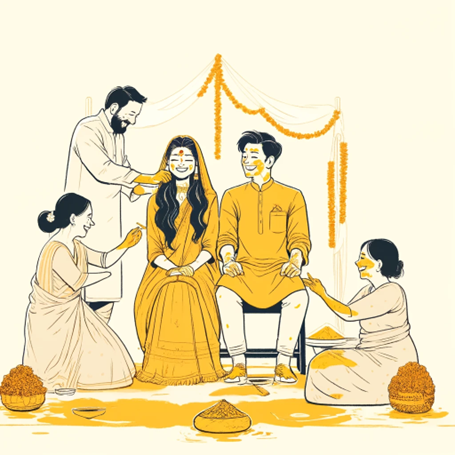
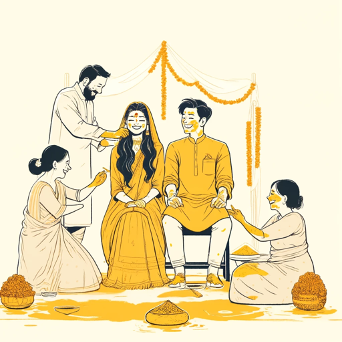
final small edits, fixed lowercased emails in database

diff --git a/app/ui/home/our-story.tsx b/app/ui/home/our-story.tsx
@@ -1,17 +1,20 @@
 import Image from 'next/image';
-import { noto_serif_japanese } from '../fonts';
+import { noto_serif_japanese, quicksand } from '../fonts';
 
-export default function OurStory(){
+export default function OurStory() {
 	return (
-		<div className="flex grid grid-rows-3 items-center justify-center mx-auto md:w-3/5 h-auto md:text-xl text-pretty">
-			<OurStoryBlock1/>
-			<OurStoryBlock2/>
-			<OurStoryBlock3/>
+		<div>
+			<h1 className={`  text-center text-4xl mb-8 underline decoration-suedeboots decoration-double`}>The Story Of How We Met</h1>
+			<div className="flex grid grid-rows-3 items-center justify-center mx-auto md:w-3/5 h-auto md:text-xl text-pretty">
+				<OurStoryBlock1 />
+				<OurStoryBlock2 />
+				<OurStoryBlock3 />
+			</div>
 		</div>
 	)
 }
 
-export function OurStoryBlock1(){
+export function OurStoryBlock1() {
 	return (
 		<div className="md:grid md:grid-cols-2 w-full h-full justify-self-center">
 			<div className="flex items-center justify-center md:hidden">
@@ -48,48 +51,48 @@ export function OurStoryBlock1(){
 			</div>
 			<div className="text-center xl:p-10">
 				<article className="text-pretty">&quot;Hey, they&apos;re speaking English! Wanna join them?&quot;</article>
-				<br/>
+				<br />
 				<article className="text-pretty">Avani, who was mid-conversation with a fellow cross-country club teammate, looked back and recognized the speaker. He was another teammate she had met earlier that month.</article>
-				<br/>
+				<br />
 				<article className="text-pretty">&quot;Oh, you&#39;re that person who asked me if I was Indian, and then ran away after I said &apos;Yes&apos;. What&apos;s your name, by the way? &quot;</article>
-				<br/>
-				<article className="text-pretty">Avani learned that the teammate&apos;s name was Shingo and his eager, well-tanned friend standing beside him was named Shusuke. Shingo explained in English that Shusuke was 
+				<br />
+				<article className="text-pretty">Avani learned that the teammate&apos;s name was Shingo and his eager, well-tanned friend standing beside him was named Shusuke. Shingo explained in English that Shusuke was
 					excited to meet international students and was wondering how he can become friends with them. Shusuke periodically chimed in with a &quot;yeah!&quot; and an exuberant high-five, much to Avani&apos;s amusement.
 					Avani, herself eager to make friends with local Japanese students, invited them to join her and the other exchange students for lunch later that week, and the three of them exchanged phone numbers.
 				</article>
-            </div>
+			</div>
 		</div>
 	)
 }
-export function OurStoryBlock2(){
+export function OurStoryBlock2() {
 	return (
 		<div className="md:grid md:grid-cols-2 w-full h-full justify-self-center">
 			<div className="text-center xl:p-10">
 				<article className="text-pretty">
-				 Fast-forward to a month later. Shusuke and Avani have become good friends (😉), often having lunch together in addition to hanging out during cross-country club and dance club a few times a week.
-				 Avani&apos;s friends in the dance club began insisting that Shusuke had a crush on her, but she always scoffed in return. &quot;Me? The foreign girl who is going back to her far-away country by the end
-				 of the summer? No way! &quot;
+					Fast-forward to a month later. Shusuke and Avani have become good friends (😉), often having lunch together in addition to hanging out during cross-country club and dance club a few times a week.
+					Avani&apos;s friends in the dance club began insisting that Shusuke had a crush on her, but she always scoffed in return. &quot;Me? The foreign girl who is going back to her far-away country by the end
+					of the summer? No way! &quot;
 				</article>
-				<br/>
+				<br />
 				<article className="text-pretty">
 					But on May 23<sup>rd</sup> 2017, Avani realized that her friends had been right.
 				</article>
-				<br/>
+				<br />
 				<article className={` ${noto_serif_japanese.className}`}>「ちょっと待って下さい。心の準備をします。」</article>
 				<article> &#40;Please wait a moment, I need to prepare myself.&#41;</article>
-				<br/>
+				<br />
 				<article className="text-pretty">&quot;I love you.&quot;</article>
-				<br/>
+				<br />
 				<article className="text-pretty">Ohhhhhmmmmyyyyygo-</article>
-				<br/>
+				<br />
 				<article className="text-pretty">&quot;Did you mean &apos;I like you?&apos; Because &apos;I love you&apos; means <article className={` ${noto_serif_japanese.className} inline`}>愛していますよ</article>
-				and &apos;I like you&apos; means <p className={` ${noto_serif_japanese.className} inline`}>好きだよ</p>.&quot;
+					and &apos;I like you&apos; means <p className={` ${noto_serif_japanese.className} inline`}>好きだよ</p>.&quot;
 				</article>
-				<br/>
-				<article className="text-pretty">You might be thinking, an English lesson?! Now?! Avani, you&#39;ve completely ruined the moment! Which she might have, but that didn&#39;t stop Shusuke. He quickly amended his 
+				<br />
+				<article className="text-pretty">You might be thinking, an English lesson?! Now?! Avani, you&#39;ve completely ruined the moment! Which she might have, but that didn&#39;t stop Shusuke. He quickly amended his
 					confessionary statement and asked if Avani would be his girlfriend, to which she agreed.
 				</article>
-            </div>
+			</div>
 			<div className="hidden flex-col items-center justify-start md:flex">
 				<Image
 					src="/avani_and_shusuke/our_story_two.png"
@@ -109,7 +112,7 @@ export function OurStoryBlock2(){
 		</div>
 	)
 }
-export function OurStoryBlock3(){
+export function OurStoryBlock3() {
 	return (
 		<div className="md:grid md:grid-cols-2 w-full h-full justify-self-center">
 			<div className="hidden flex-col items-start justify-start md:flex pt-10">
@@ -126,10 +129,10 @@ export function OurStoryBlock3(){
 					different ways could connect with each other so seamlessly? The love they shared for each other was indeed special, because it weathered them through the difficulties of long-distance dating
 					for six years and convinced them that they want to spend the rest of their many years to come, together. In one country, in one home.
 				</article>
-				<br/>
+				<br />
 				<article className="text-pretty">So please, join us as we celebrate the beginning of our new life together 😊</article>
 				<article className={` ${noto_serif_japanese.className}`}>さて、祝いましょう！</article>
-            </div>
+			</div>
 		</div>
 	)
 }

diff --git a/app/ui/events/event-block.tsx b/app/ui/events/event-block.tsx
@@ -57,7 +57,7 @@ export function MehendiEventBlock() {
 						<p>6:00 to 8:00pm</p>
 						<p>Mehendi for Bride & Groom</p>
 						<p>7:00 to 10:00pm</p>
-						<p>Mehendi for Bridal Party & Family</p>
+						<p>Mehendi for Bridal Party, Family & Guests</p>
 						<p>7:00 to 8:30pm</p>
 						<p>Dinner & Drinks</p>
 						<p>8:30 to 10:00pm</p>
@@ -102,9 +102,9 @@ export function HaldiEventBlock() {
 			<div className="hidden items-center justify-center h-full md:flex">
 				<Image
 					src="/events/haldi.png"
-					width={800}
-					height={800}
-					className="styles.imagehidden md:flex"
+					width={500}
+					height={500}
+					className="styles.imagehidden md:flex border border-double border-amber-500 p-10 border-8"
 					alt="Illustration of each wedding event."
 				/>
 			</div>
@@ -112,7 +112,7 @@ export function HaldiEventBlock() {
 				<h2 className="text-4xl">HALDI</h2>
 					<p>
 						<a className="text-amber-500">Date: </a> 
-						Thursday, August 29<sup>th</sup> at 10:00am
+						Thursday, August 29<sup>th</sup> at 10:30am
 					</p>
 					<p>
 						<a className="text-amber-500">Location: </a> 
@@ -124,9 +124,9 @@ export function HaldiEventBlock() {
 					<p className="text-amber-500">Program</p>
 					<br />
 					<div className="grid grid-cols-2">
-						<p>10:00 to 10:30am</p>
+						<p>10:30 to 10:45am</p>
 						<p>Arrival of Guests</p>
-						<p>10:00 to 11:00am</p>
+						<p>10:45 to 11:00am</p>
 						<p>Light Snacks & Beverages</p>
 						<p>11:00 to 11:45am</p>
 						<p>Haldi Ceremony</p>
@@ -271,15 +271,15 @@ export function MuhurthamEventBlock() {
 					<div className="grid grid-cols-2">
 						<p>10:45 to 11:00am</p>
 						<p>Arrival of Guests</p>
-						<p>11:00 to 11:30am</p>
+						<p>11:00 to 11:15am</p>
 						<p>Light Snacks & Beverages</p>
-						<p>11:30 to 12:00pm</p>
+						<p>11:15 to 11:45pm</p>
 						<p>Baraat</p>
-						<p>12:00 to 1:30pm</p>
+						<p>11:45 to 1:15pm</p>
 						<p>Lagnam</p>
-						<p>1:30 to 2:30pm</p>
+						<p>1:15 to 2:15pm</p>
 						<p>Lunch</p>
-						<p>2:30 to 3:30pm</p>
+						<p>2:15 to 3:00pm</p>
 						<p>Photo Shoot</p>
 					</div>
 				</div>

diff --git a/app/lib/update_email_guests.js b/app/lib/update_email_guests.js
@@ -1,0 +1,86 @@
+const update_guest_list = [
+	{
+		guest_id: "aswed2",
+		email: "annapanda2345@gmail.com",
+	},
+	{
+		guest_id: "aswed5",
+		email: "bthuthika@gmail.com",
+	},
+	{
+		guest_id: "aswed10",
+		email: "jia.613@gmail.com",
+	},
+	{
+		guest_id: "aswed17",
+		email: "rishirt.us@gmail.com",
+	},
+	{
+		guest_id: "aswed31",
+		email: "neel227@gmail.com",
+	},
+	{
+		guest_id: "aswed43",
+		email: "abhishek1703@gmail.com",
+	},
+	{
+		guest_id: "aswed44",
+		email: "yamuna.nagaraj@gmail.com",
+	},
+	{
+		guest_id: "aswed45",
+		email: "anika.riar@gmail.com",
+	},
+	{
+		guest_id: "aswed50",
+		email: "itssaritha@gmail.com",
+	},
+	{
+		guest_id: "aswed51",
+		email: "smanik1@hotmail.com",
+	},
+	{
+		guest_id: "aswed52",
+		email: "sunitharajan@yahoo.com",
+	},
+	{
+		guest_id: "aswed54",
+		email: "murlidhar.shenoy@gmail.com",
+	},
+	{
+		guest_id: "aswed58",
+		email: "vikas95014@gmail.com",
+	},
+	{
+		guest_id: "aswed90",
+		email: "balsekar@aol.com",
+	},
+	{
+		guest_id: "aswed91",
+		email: "malishetty18@gmail.com",
+	},
+	{
+		guest_id: "aswed92",
+		email: "gailkamath@yahoo.com",
+	},
+	{
+		guest_id: "aswed98",
+		email: "shuklak@hotmail.com",
+	},
+	{
+		guest_id: "aswed102",
+		email: "surgee@yahoo.com",
+	},
+	{
+		guest_id: "aswed104",
+		email: "srikanthkurkal@gmail.com",
+	},
+	{
+		guest_id: "aswed109",
+		email: "geetudalwani@yahoo.com",
+	},
+]
+
+module.exports = {
+	update_guest_list
+};

diff --git a/app/ui/rsvp/rsvp-form.tsx b/app/ui/rsvp/rsvp-form.tsx
@@ -29,7 +29,7 @@ export default function RSVPForm({ invites }: { invites: InvitedEvents }) {
           <div className="mb-8 text-sm md:text-xl">
             <fieldset className="mb-2">
               <legend className="mb-2 block">
-                Will you attend the Bridal Mehendi on Wednesday, August 28<sup>th</sup> at 6:00pm CST?
+                Will you and your party attend the Bridal Mehendi on Wednesday, August 28<sup>th</sup> at 6:00pm CST?
               </legend>
               <div className="rounded-md bg-white px-[14px] py-3">
                 <div className="flex gap-8">
@@ -108,7 +108,7 @@ export default function RSVPForm({ invites }: { invites: InvitedEvents }) {
           <div className="mb-8 text-sm md:text-xl">
             <fieldset className="mb-2">
               <legend className="mb-2 block ">
-                Will you and your party be attending the Haldi on Thursday, August 29<sup>th</sup> at 10:00am CST?
+                Will you and your party be attending the Haldi on Thursday, August 29<sup>th</sup> at 10:30am CST?
               </legend>
               <div className="rounded-md bg-white px-[14px] py-3">
                 <div className="flex gap-8">

diff --git a/scripts/seed.js b/scripts/seed.js
@@ -2,6 +2,9 @@ const { db } = require('@vercel/postgres');
 const {
   guest_table
 } = require('../app/lib/guests.js');
+const {
+	update_guest_list
+} = require('../app/lib/update_email_guests.js');
 const bcrypt = require('bcrypt');
 
 async function seedUsers(client) {
@@ -129,11 +132,32 @@ async function removeTable(client){
   }
 
 }
+
+async function updateTable(client){
+	try {
+		const updateGuests = await Promise.all(
+			update_guest_list.map(async (guest) => {
+				return client.sql`
+				UPDATE guests
+				SET email = ${guest.email}
+				WHERE guest_id = ${guest.guest_id}
+				`;
+			}),
+		);
+
+		console.log(`Updated users with lowercased emails.`);
+
+	} catch (error) {
+    	console.error('Error updating the table.', error);
+    	throw error;
+	}
+}
 async function main() {
   const client = await db.connect();
 
   //await removeTable(client);
-  await seedUsers(client);
+  //await seedUsers(client);
+  await updateTable(client);
 
   await client.end();
 }

diff --git a/app/wedding/rsvp/page.tsx b/app/wedding/rsvp/page.tsx
@@ -12,7 +12,7 @@ export default async function Page() {
         <main>
             <div className="bg-[url('/sakura_border.png')] bg-contain container flex flex-col justify-evenly p-4 mx-auto max-width">
                 <h1 className={` ${birthstonebounce.className} text-2xl md:text-7xl text-center md:mb-4`}>We hope you can join us!</h1>
-                <h1 className="text-md text-center"><br/>Kindly respond by July 15<sup>th</sup>, 2024</h1>
+                <h1 className="text-xl text-center"><br/>Kindly respond by July 15<sup>th</sup>, 2024</h1>
             </div>
             <RSVPForm invites={invitedEvents}/>
         </main>
